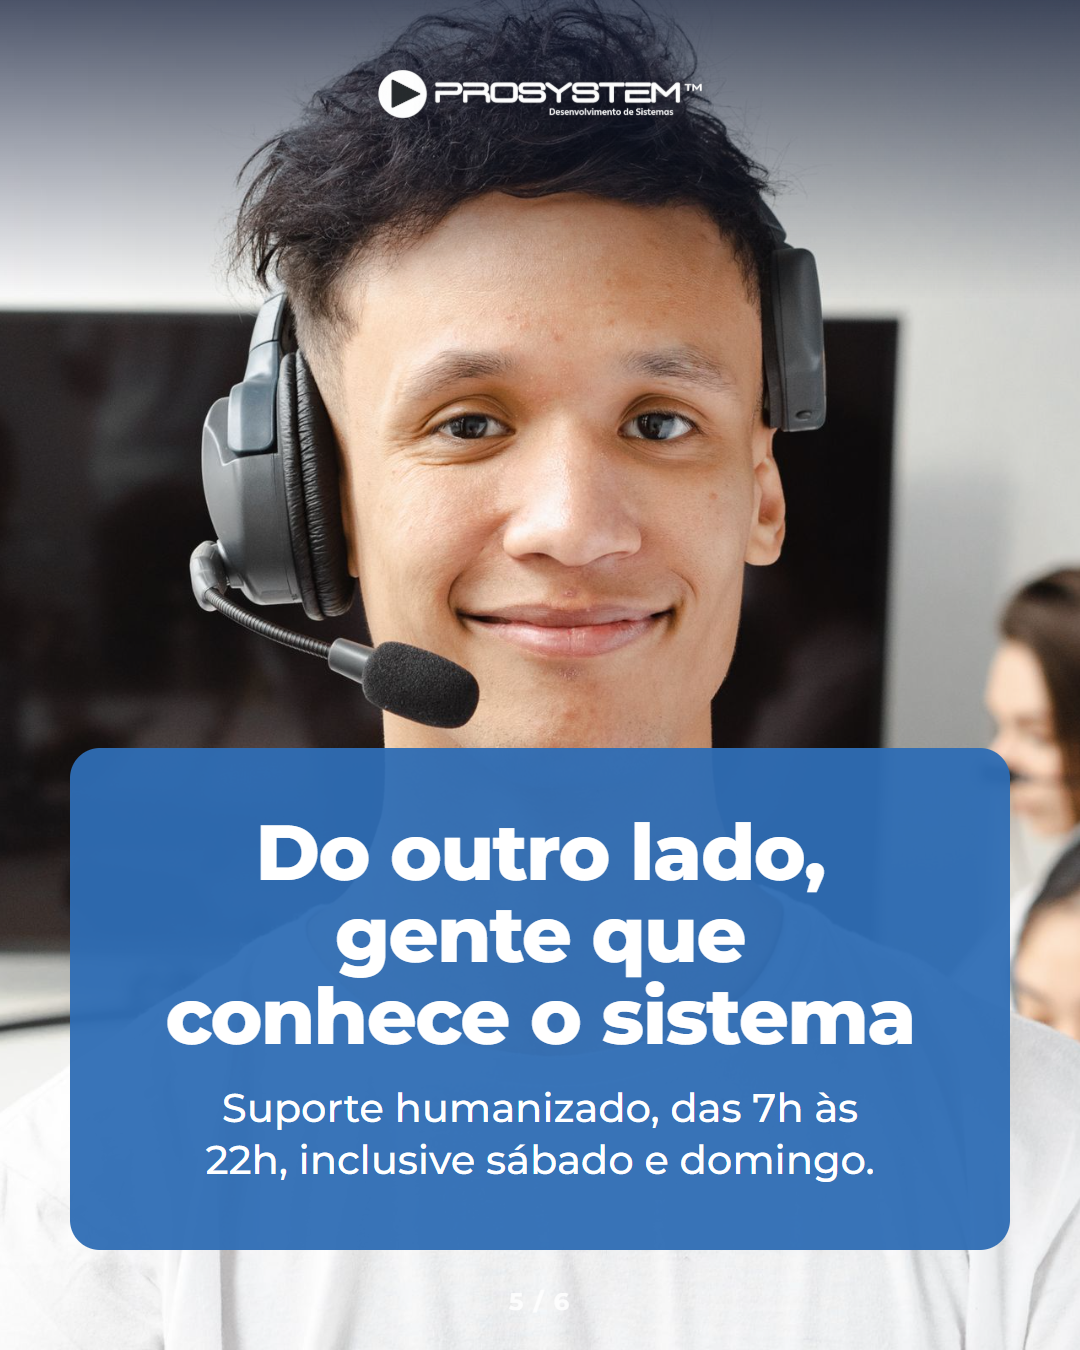
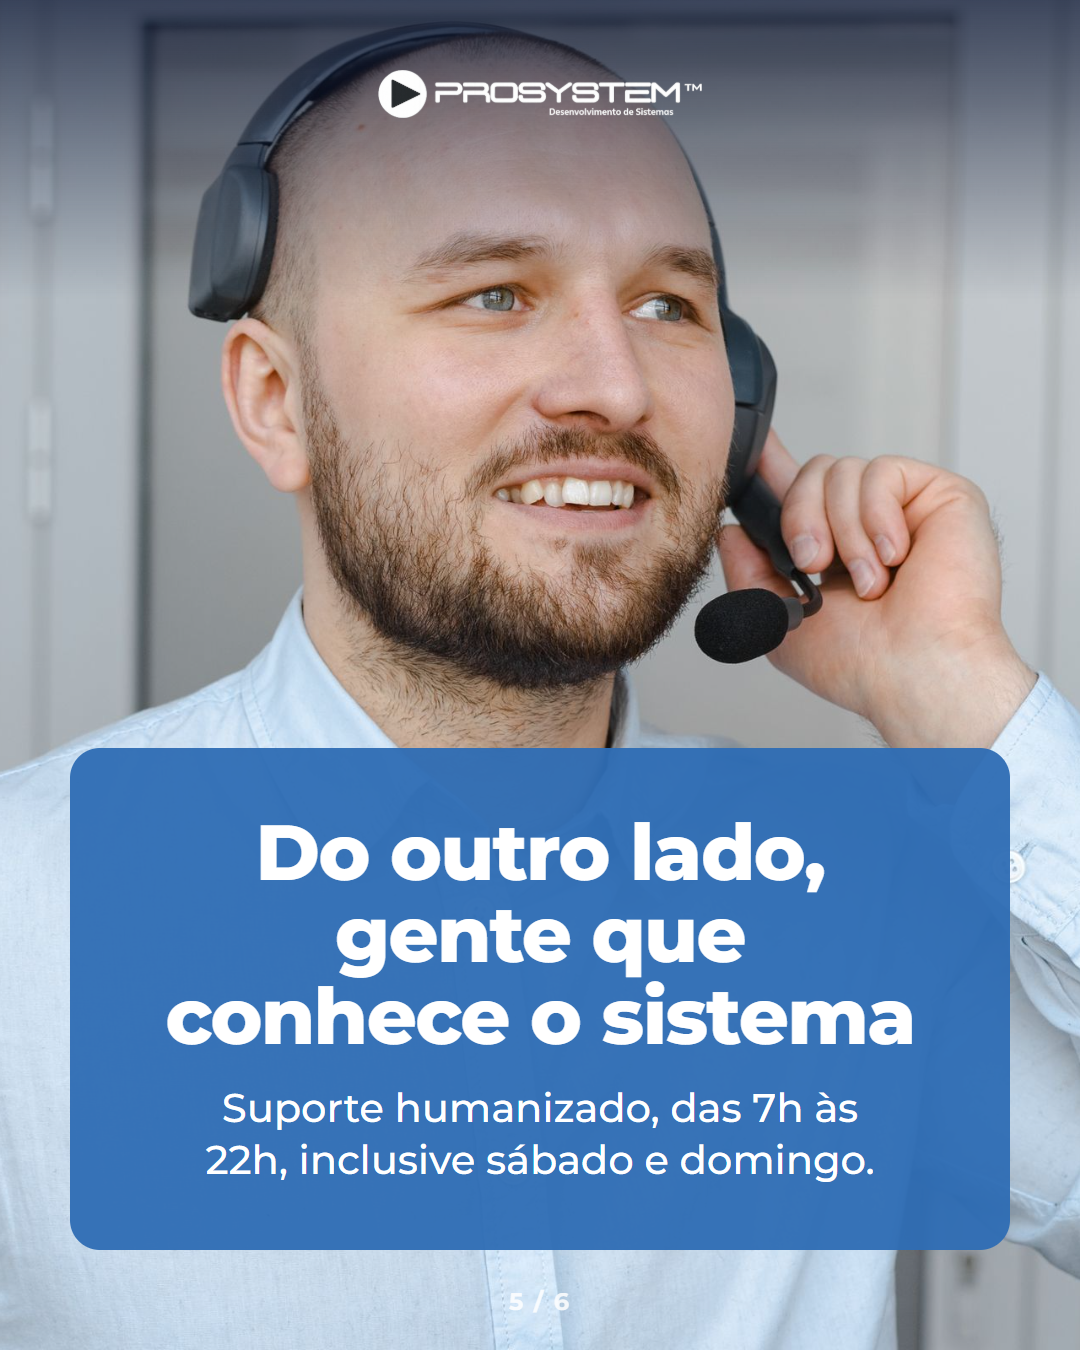
Carrossel do suporte v4: página 5 com atendente homem de fone, sorrindo

diff --git a/outputs/criativos/suporte/pecas.html b/outputs/criativos/suporte/pecas.html
@@ -44,6 +44,6 @@ body{background:#8a93a3;font-family:'Montserrat',Arial,sans-serif}
 <section class="pg " data-nome="carrossel-farmacia-suporte-v4-2"><img class="v2-foto" src="fotos/prateleiras-recorte.jpg" alt=""><div class="topo-sombra"></div><img class="logo" src="../../../docs/design/guia-de-estilos/assets/logo-light.png" alt="ProSystem"><div class="v2-sel"><span>1</span></div><div class="v2-txt"><h2>Chame o suporte no <b>WhatsApp.</b></h2><p class="faixa">Diga <b>de qual loja</b> você fala e qual computador está com problema.</p></div><div class="num">2 / 6</div></section>
 <section class="pg " data-nome="carrossel-farmacia-suporte-v4-3"><img class="v2-foto" src="fotos/maos-digitando.jpg" alt=""><div class="topo-sombra"></div><img class="logo" src="../../../docs/design/guia-de-estilos/assets/logo-light.png" alt="ProSystem"><div class="v2-sel"><span>2</span></div><div class="v2-txt"><h2>Conte <b>o problema</b> do seu jeito.</h2><p class="faixa">Pode ser por <b>áudio, texto ou print da tela.</b></p></div><div class="num">3 / 6</div></section>
 <section class="pg " data-nome="carrossel-farmacia-suporte-v4-4"><img class="v2-foto" src="fotos/maos-teclado-mesa.jpg" alt=""><div class="topo-sombra"></div><img class="logo" src="../../../docs/design/guia-de-estilos/assets/logo-light.png" alt="ProSystem"><div class="v2-sel"><span>3</span></div><div class="v2-txt"><h2>Deixe o <b>acesso remoto</b> pronto.</h2><p class="faixa">Abra o programa e passe ao técnico o número de <b>“Este Dispositivo”.</b></p></div><div class="num">4 / 6</div></section>
-<section class="pg sobre" data-nome="carrossel-farmacia-suporte-v4-5"><img class="cheia" src="fotos/atendente-suporte-homem.jpg" alt="" style="object-position:45% 50%"><div class="topo-sombra"></div><img class="logo" src="../../../docs/design/guia-de-estilos/assets/logo-light.png" alt="ProSystem"><div class="v2-painel"><h2>Do outro lado, gente que conhece o sistema</h2><p>Suporte humanizado, das 7h às 22h, inclusive sábado e domingo.</p></div><div class="num">5 / 6</div></section>
+<section class="pg sobre" data-nome="carrossel-farmacia-suporte-v4-5"><img class="cheia" src="fotos/atendente-suporte-homem.jpg" alt="" style="object-position:52% 50%"><div class="topo-sombra"></div><img class="logo" src="../../../docs/design/guia-de-estilos/assets/logo-light.png" alt="ProSystem"><div class="v2-painel"><h2>Do outro lado, gente que conhece o sistema</h2><p>Suporte humanizado, das 7h às 22h, inclusive sábado e domingo.</p></div><div class="num">5 / 6</div></section>
 <section class="pg forte" data-nome="carrossel-farmacia-suporte-v4-6"><img class="v2-fim-foto" src="../modelos/carrossel/fotos/cartelas-azuis.jpg" alt=""><div class="topo-sombra"></div><img class="logo" src="../../../docs/design/guia-de-estilos/assets/logo-light.png" alt="ProSystem"><div class="v2-fim"><h2>Mostre este passo a passo para <b>sua equipe.</b></h2><div class="provas"><div><strong>+600</strong><span>clientes</span></div><i></i><div><strong>+16</strong><span>anos de experiência</span></div></div><span class="pil">Salve este post</span><div class="site">prosystemnet.com.br</div></div></section>
 </div></body></html>

diff --git a/outputs/criativos/suporte/gerar.js b/outputs/criativos/suporte/gerar.js
@@ -20,7 +20,7 @@ const c = {
     { n: 2, titulo: 'Conte <b>o problema</b> do seu jeito.', apoio: 'Pode ser por <b>áudio, texto ou print da tela.</b>', foto: 'L:maos-digitando' },
     { n: 3, titulo: 'Deixe o <b>acesso remoto</b> pronto.', apoio: 'Abra o programa e passe ao técnico o número de <b>“Este Dispositivo”.</b>', foto: 'L:maos-teclado-mesa' },
   ],
-  sol: { titulo: 'Do outro lado, gente que conhece o sistema', apoio: 'Suporte humanizado, das 7h às 22h, inclusive sábado e domingo.', foto: 'L:atendente-suporte-homem', pos: '45% 50%' },
+  sol: { titulo: 'Do outro lado, gente que conhece o sistema', apoio: 'Suporte humanizado, das 7h às 22h, inclusive sábado e domingo.', foto: 'L:atendente-suporte-homem', pos: '52% 50%' },
   fim: { titulo: 'Mostre este passo a passo para <b>sua equipe.</b>', foto: 'cartelas-azuis' },
 };
 

diff --git a/docs/contexto/relatorios/2026-10-30-carrossel-suporte.md b/docs/contexto/relatorios/2026-10-30-carrossel-suporte.md
@@ -61,3 +61,12 @@ Montar o editorial de novembro de 2026 e os posts do Perfil da Empresa no Google
 - Conferir a regra de postagens na ajuda do Google (support.google.com/business/answer/7213077), que também não abriu. Guias de terceiros citam 1.500 caracteres e imagem 4:3 de 1200×900, sem confirmação oficial.
 - Corrigir o artigo do SNCR no site, com autorização da Jessica, antes de divulgá-lo.
 - Skills: `blog-post`, `ai-seo`, `relatorio-final`.
+
+## Atualização de 03/11/2026 (versão v4)
+A Jessica enviou a página 5 e pediu: "Troque essa foto, coloque um homem".
+- Peças `carrossel-farmacia-suporte-v4-<página>.png`. Só a foto da página 5 mudou; a v1, a v2 e a v3 ficam como referência e não devem ser usadas.
+- Foto: `fotos/atendente-suporte-homem.jpg`, de banco de imagens (Pexels, Mikhail Nilov). Não é da equipe da ProSystem. A posição da foto agora fica no campo `pos` de `sol`, em `gerar.js`.
+- Testadas e descartadas: um close de rapaz com fone (rosto grande demais, logo no cabelo) e um homem de óculos na estação (sorriso coberto pelo painel). Outra foto do mesmo modelo cortava o alto da cabeça.
+- Verificado: página 5 vista em tamanho real, rosto inteiro e sorriso acima do painel; gerador sem estouro. Autor e licença "Free" lidos na página da foto; os termos completos da licença do Pexels não foram lidos.
+- Texto alternativo da página 5 em `legendas.md` atualizado para "atendente homem".
+- Não verificado: o "5 / 6" continua com pouco contraste sobre a camisa clara, como já estava na v3.

diff --git a/outputs/criativos/suporte/legendas.md b/outputs/criativos/suporte/legendas.md
@@ -1,8 +1,8 @@
 # Legenda do carrossel do suporte
 
-Publicação: 6 páginas, 1080×1350, no modelo V2 do caderno de marca, nos arquivos `carrossel-farmacia-suporte-v3-<página>.png`. Para regenerar, use `gerar.js`. A v1 e a v2 ficam só como referência e não devem ser usadas.
+Publicação: 6 páginas, 1080×1350, no modelo V2 do caderno de marca, nos arquivos `carrossel-farmacia-suporte-v4-<página>.png`. Para regenerar, use `gerar.js`. A v1, a v2 e a v3 ficam só como referência e não devem ser usadas.
 
-## carrossel-farmacia-suporte-v3
+## carrossel-farmacia-suporte-v4
 
 Suporte de sistema para farmácia precisa ser fácil de chamar, principalmente quando o computador trava com fila no balcão. Para resolver mais rápido, siga estes 3 passos:
 
@@ -28,5 +28,5 @@ No Instagram, em "Configurações avançadas" > "Escrever texto alternativo", an
 2. Prateleiras de farmácia desfocadas e o passo 1: chame o suporte no WhatsApp e diga a loja e o computador.
 3. Mãos digitando em um teclado e o passo 2: conte o problema por áudio, texto ou print da tela.
 4. Mãos em um teclado sobre mesa de madeira e o passo 3: abra o acesso remoto e passe o número de "Este Dispositivo".
-5. Atendente sorrindo, de fone com microfone: suporte humanizado, das 7h às 22h, inclusive sábado e domingo.
+5. Atendente homem sorrindo, de fone com microfone: suporte humanizado, das 7h às 22h, inclusive sábado e domingo.
 6. Cartelas de comprimidos e o convite para salvar o post e mostrar o passo a passo à equipe.

diff --git a/outputs/criativos/suporte/fotos/CREDITOS.md b/outputs/criativos/suporte/fotos/CREDITOS.md
@@ -7,3 +7,4 @@ Wikimedia Commons, conferir a licença na página de cada arquivo.
 - `maos-digitando.jpg`: William Iven firmbee, CC0, https://commons.wikimedia.org/wiki/File:Woman_typing_at_a_computer_(Unsplash).png (recortada para tirar o computador e o logo)
 - `prateleiras-recorte.jpg`: recorte de `prateleiras-escuras.jpg`, Árpád Czapp, licença Unsplash, créditos em `outputs/criativos/modelos/carrossel/fotos/CREDITOS.md`. Recortada e desfocada para não deixar marca de medicamento legível.
 - `atendente-suporte.jpg`: Yan Krukau, licença Pexels, https://www.pexels.com/photo/a-smiling-woman-sitting-at-her-station-8867213/ (recortada para tirar um celular que estava sobre a mesa)
+- `atendente-suporte-homem.jpg`: Mikhail Nilov, licença Pexels, https://www.pexels.com/photo/smiling-man-in-blue-long-sleeves-wearing-a-black-headset-7682200/ (página 5 da v4; a Jessica pediu um homem no lugar da atendente)
